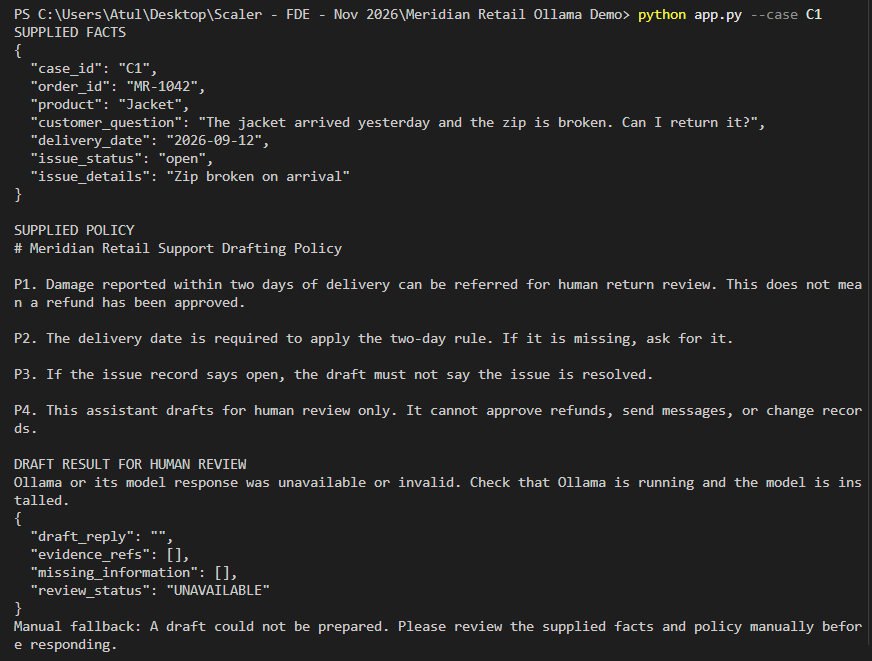
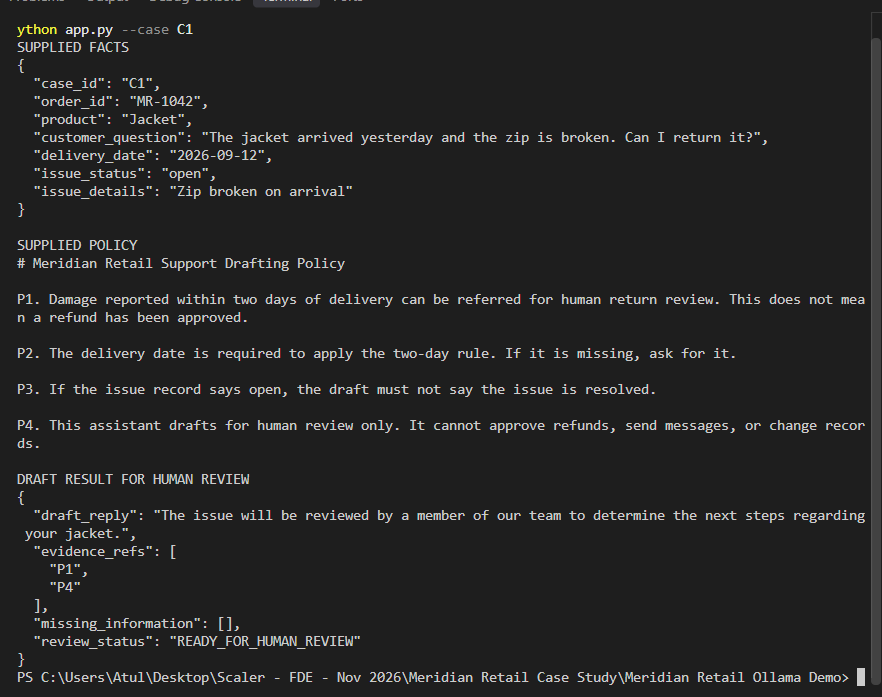
Add case guidance function and update request model prompt; enhance tests for delivery date handling

Changed region(s): [[0.0, 0.0, 1.0, 0.9985], [0.0, 0.0, 0.9289, 0.3026], [0.0, 0.3328, 0.4025, 0.3933]]

diff --git a/Meridian Retail Ollama Demo/app.py b/Meridian Retail Ollama Demo/app.py
@@ -84,18 +84,57 @@ def validate_result(raw_result: str, policy: str) -> dict:
     return result
 
 
+def case_guidance(case: dict) -> str:
+    if case.get("delivery_date") is None:
+        return (
+            "The delivery_date field is missing. Ask the customer for it and do "
+            "not say the two-day review rule can be applied yet. Set "
+            'missing_information to ["delivery_date"], review_status to '
+            "NEEDS_INFORMATION, and cite P2 and P4. Suggested customer-facing "
+            'wording: "What was the delivery date? I need it to apply the '
+            'two-day rule."'
+        )
+    question = case.get("customer_question", "").lower()
+    if case.get("issue_status") == "open" and "resolved" in question:
+        return (
+            "The customer asks whether the issue is resolved, but its status is "
+            "open and the request is still under review. Say you cannot confirm "
+            "resolution; do not call the issue blocked, state it is resolved, or "
+            "promise follow-up. Set missing_information to [], review_status to "
+            "BLOCKED, and cite P3 and P4. Use BLOCKED only as internal metadata. "
+            'Suggested customer-facing wording: "The replacement request is '
+            'still under review, so I cannot confirm that the issue is resolved."'
+        )
+    if (
+        "yesterday" in question
+        and "broken" in case.get("issue_details", "").lower()
+        and any(word in question for word in ("return", "refund"))
+    ):
+        return (
+            "The customer says the damaged item arrived yesterday and "
+            "delivery_date is supplied. Do not ask for the delivery date or list "
+            "it as missing. It may be referred for human return review; do not "
+            "imply refund approval. Set missing_information to [], "
+            "review_status to READY_FOR_HUMAN_REVIEW, and cite P1 and P4. "
+            'Suggested customer-facing wording: "The reported damage may be '
+            'referred for human return review. This does not mean a refund has '
+            'been approved."'
+        )
+    return (
+        "Use the supplied policy to identify any missing required information "
+        "and choose the appropriate review_status."
+    )
+
+
 def request_model(case: dict, policy: str, model: str) -> str:
     prompt = (
-        "Prepare a support draft using only the supplied case facts and policy. "
-        "Do not invent facts or claim an action was taken. Do not say an issue is "
-        "resolved when its status is open. Do not imply a refund is approved. "
-        "Return only a JSON object matching the required response format: "
-        "draft_reply (text), evidence_refs (list of policy IDs), "
-        "missing_information (list of field names), and review_status (one of "
-        "READY_FOR_HUMAN_REVIEW, NEEDS_INFORMATION, BLOCKED). Use "
-        "NEEDS_INFORMATION when required information is missing and BLOCKED when "
-        "the request cannot be supported by policy. This is for human review "
-        "only; never send a message, approve a refund, or change a record.\n\n"
+        "Write a concise customer-service reply using only the supplied case "
+        "facts and policy. Return only one JSON object matching the required "
+        "schema. draft_reply must be a non-empty sentence. Do not use "
+        "placeholders, invent actions or follow-up promises, approve refunds, "
+        "or claim an open issue is resolved. This is for human review only; "
+        "never send a message or change a record.\n\n"
+        f"CASE-SPECIFIC GUIDANCE:\n{case_guidance(case)}\n\n"
         f"SUPPLIED FACTS:\n{json.dumps(case, ensure_ascii=False)}\n\n"
         f"SUPPLIED POLICY:\n{policy}"
     )

diff --git a/Meridian Retail Ollama Demo/test_app.py b/Meridian Retail Ollama Demo/test_app.py
@@ -94,6 +94,7 @@ def test_ollama_request_uses_local_chat_api_and_json_schema(monkeypatch):
     assert seen["body"]["model"] == "test-model"
     assert seen["body"]["format"] == app.RESPONSE_SCHEMA
     assert seen["body"]["stream"] is False
+    assert "delivery_date is supplied" in seen["body"]["messages"][0]["content"]
 
 
 def test_all_required_input_and_output_files_exist():
